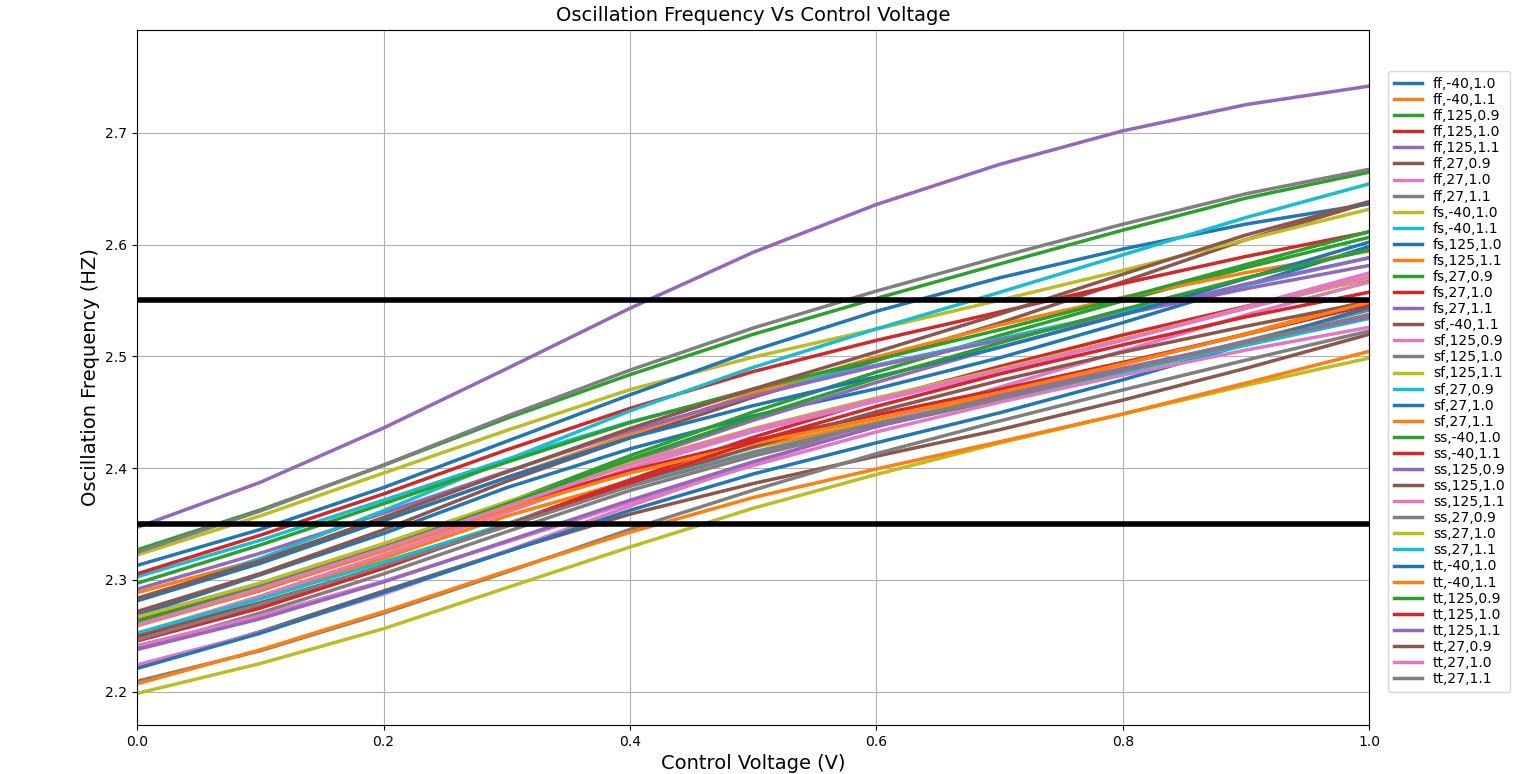
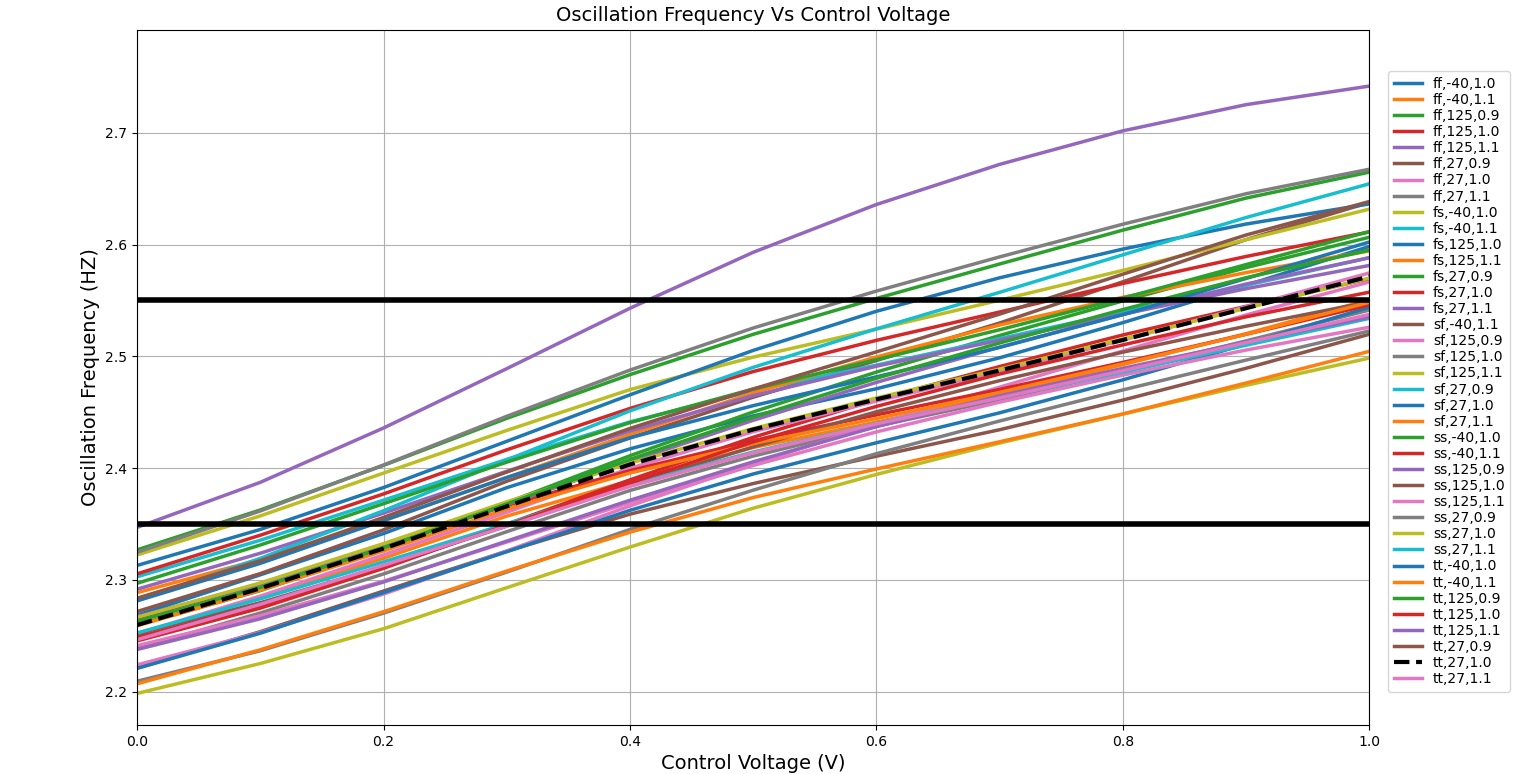
updating the results to make the tt corner results appear clearly

diff --git a/pll/selected_vco_lib/scripts/plot_measurements.py b/pll/selected_vco_lib/scripts/plot_measurements.py
@@ -26,7 +26,10 @@ for itr in range(0,len(df["control"])-len(vctrl_corners)+1,len(vctrl_corners)):
     freq_list = df["freq (GHZ)"][itr:itr+len(vctrl_corners)-1].tolist()
     oscilation_state = df["Oscillation Status"][itr:itr+len(vctrl_corners)-1].tolist()
     if (False not in oscilation_state) :
-        plt.plot(control_list , freq_list,linewidth = 2.5,label=df["corner name"][itr])
+        if (df["corner name"][itr] == 'tt,27,1.0'):
+            plt.plot(control_list , freq_list,linewidth = 3, color = 'black',linestyle='dashed',label=df["corner name"][itr])
+        else:
+            plt.plot(control_list , freq_list,linewidth = 2.5,label=df["corner name"][itr])
 
 
 plt.legend(bbox_to_anchor=(1.12, 0.95),loc='upper right', labelspacing=0.15)
@@ -59,7 +62,10 @@ for itr in range(0,len(df["control"])-len(vctrl_corners)+1,len(vctrl_corners)):
     '''
     oscilation_state = df["Oscillation Status"][itr:itr+len(vctrl_corners)-1].tolist()
     if (False not in oscilation_state) :
-        plt.plot(control_list_prime, kvco*1e+3,linewidth = 2.5,label=df["corner name"][itr])
+        if (df["corner name"][itr] == 'tt,27,1.0'):
+            plt.plot(control_list_prime, kvco*1e+3,linewidth = 3, color = 'black',linestyle='dashed',label=df["corner name"][itr])
+        else:
+            plt.plot(control_list_prime, kvco*1e+3,linewidth = 2.5,label=df["corner name"][itr])
 
 
 plt.legend(bbox_to_anchor=(1.12, 0.95),loc='upper right', labelspacing=0.15)
